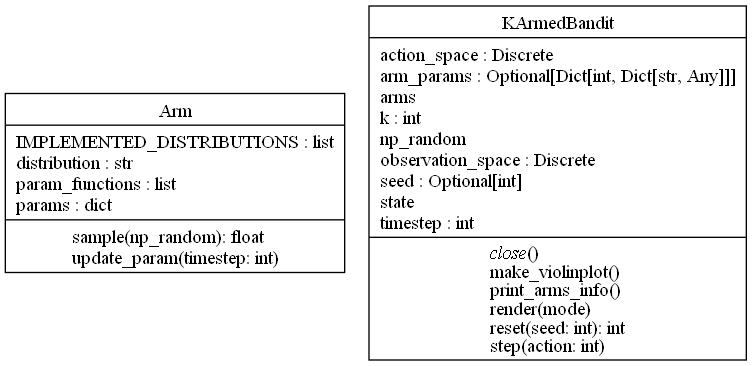
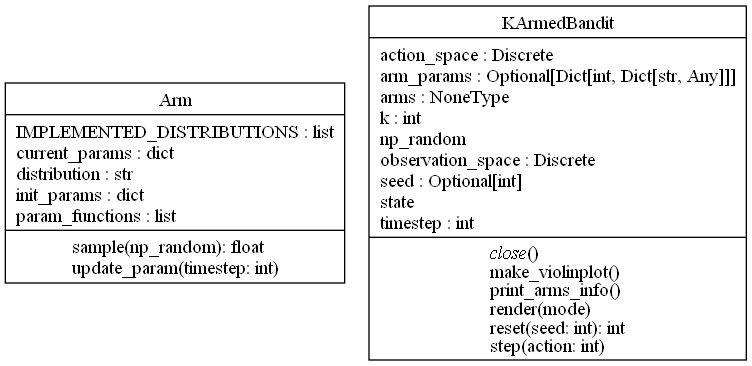
updated documentation to increment major release

Changed region(s): [[0.0, 0.2104, 0.4588, 0.7814], [0.5505, 0.2404, 0.6729, 0.3005]]

diff --git a/CHANGELOG.md b/CHANGELOG.md
@@ -7,11 +7,14 @@ and this project adheres to [Semantic Versioning](https://semver.org/spec/v2.0.0
 
 ## [Unreleased]
 
-## [1.5.0] - 2023.10.20
+## [2.0.0] - 2023.10.22
 
 ### Fixed
 
 - Fixed a behavior of the shifting parameters in the Arms of the Bandit
+- Properly incremented the major release digit as we have a new environment now  
+
+## [1.5.0] - 2023.10.20
 
 ### Added
 
